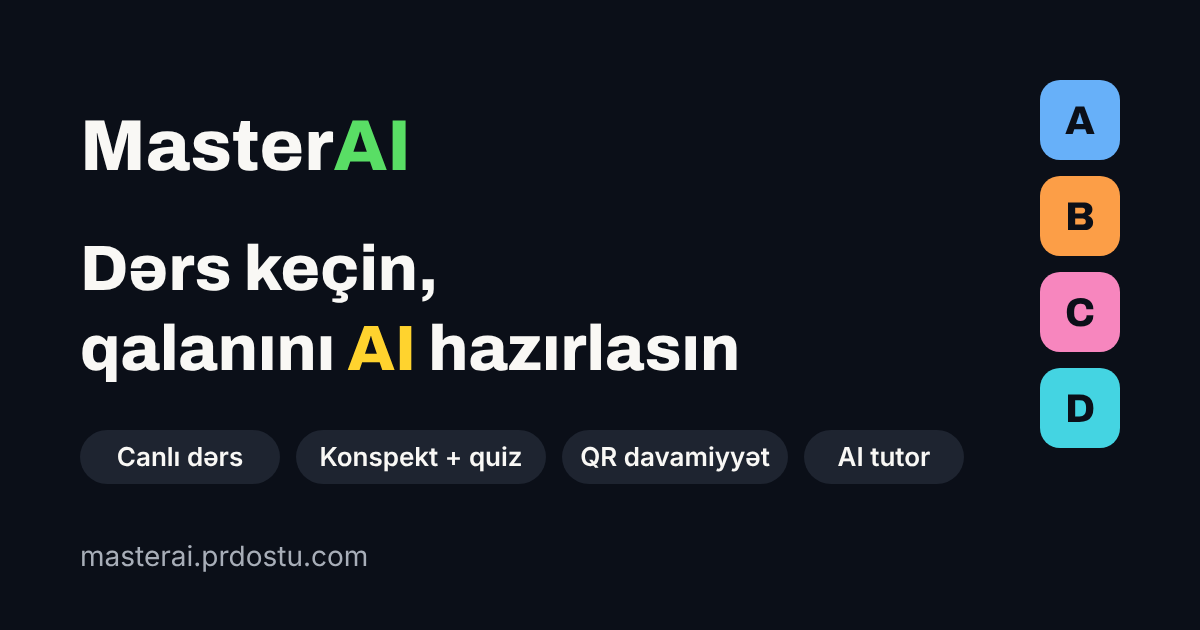
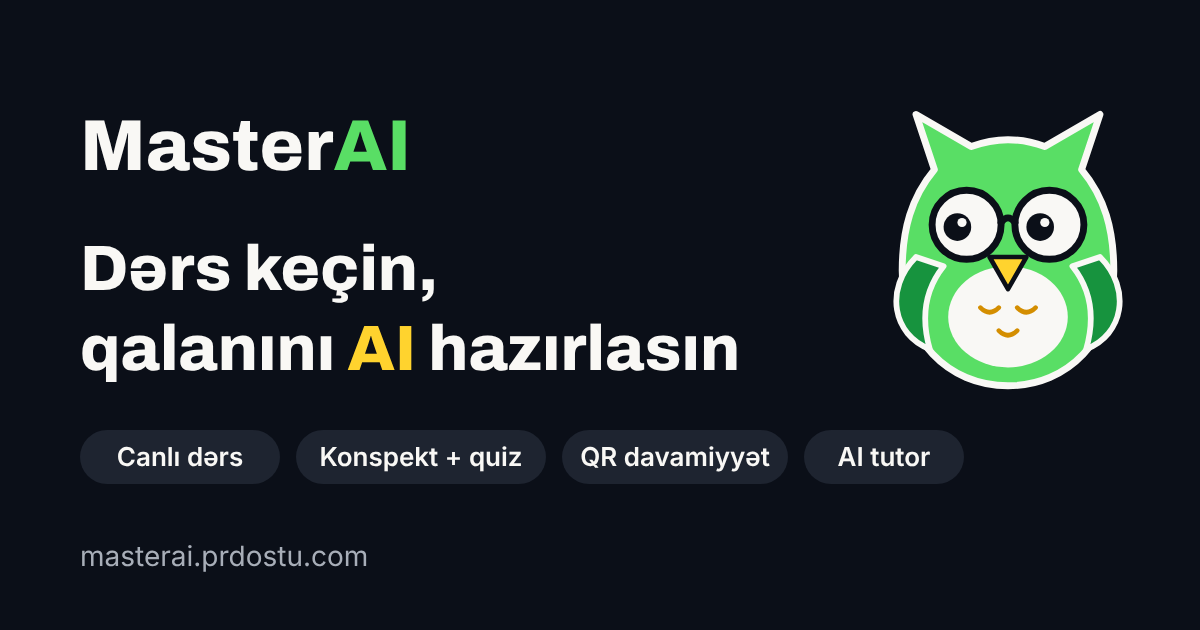
Hesabsız səhifələrdə bayquş, paylaşım şəkli, yekun axe yoxlaması (Faza 6)
- giris/qeydiyyat/qosul lövhəsində bayquş, səhv şifrədə təəccüblənir; bagli-da yatır
- og-banner: A-D kvadratları yerinə bayquş (PNG yenidən çəkildi)
- axe WCAG A+AA: hüquqi səhifələrin footer linki qara fonda 3.5 kontrast -> düzəldi, təkrar 0
- 4 yeni Node testi

Claude-Session: https://claude.ai/code/session_01FyfZgvp5vw2sim4aAzuqca

Changed region(s): [[0.74, 0.1206, 0.9558, 0.7238]]

diff --git a/web/index.html b/web/index.html
@@ -9,7 +9,7 @@
 <meta name="robots" content="index, follow">
 <meta name="theme-color" content="#0B0F18">
 <link rel="canonical" href="https://masterai.prdostu.com/">
-<link rel="manifest" href="manifest.json?v=20261102g">
+<link rel="manifest" href="manifest.json?v=20261102h">
 
 <!-- Open Graph - Telegram/WhatsApp link önizləməsi.
      MasterAI üçün xüsusilə vacibdir: müəllimlər sessiya linkini qrup
@@ -19,7 +19,7 @@
 <meta property="og:title" content="MasterAI - dərs keçin, qalanını AI hazırlasın">
 <meta property="og:description" content="Video dərs, dərsin səsindən AI konspekt və quiz, QR davamiyyət, AI tutor.">
 <meta property="og:url" content="https://masterai.prdostu.com/">
-<meta property="og:image" content="https://masterai.prdostu.com/assets/og-banner.png?v=20261102g">
+<meta property="og:image" content="https://masterai.prdostu.com/assets/og-banner.png?v=20261102h">
 <meta property="og:image:type" content="image/png">
 <meta property="og:image:width" content="1200">
 <meta property="og:image:height" content="630">
@@ -29,7 +29,7 @@
 <meta name="twitter:card" content="summary_large_image">
 <meta name="twitter:title" content="MasterAI - dərs keçin, qalanını AI hazırlasın">
 <meta name="twitter:description" content="Video dərs, dərsin səsindən AI konspekt və quiz, QR davamiyyət, AI tutor.">
-<meta name="twitter:image" content="https://masterai.prdostu.com/assets/og-banner.png?v=20261102g">
+<meta name="twitter:image" content="https://masterai.prdostu.com/assets/og-banner.png?v=20261102h">
 
 <script type="application/ld+json">
 {
@@ -47,7 +47,7 @@
 
 <!-- Brauzer nişanı. Olmasa brauzer /favicon.ico istəyir və hər
      səhifə yüklənişində 404 yaranır (render testində görüldü). -->
-<link rel="icon" href="assets/icon.svg?v=20261102g" type="image/svg+xml">
+<link rel="icon" href="assets/icon.svg?v=20261102h" type="image/svg+xml">
 <!-- Görünüş seçimi ilk boyamadan ƏVVƏL tətbiq olunur.
      NİYƏ İNLİNE: modul kimi yüklənsə brauzer əvvəlcə işıqlı ekranı
      çəkər, sonra tündə keçər - hər keçiddə ağ sıçrayış olar.
@@ -59,10 +59,10 @@
     if (t === 'dark' || t === 'light') document.documentElement.setAttribute('data-theme', t);
   } catch (e) { /* yaddaş bloklanıb - cihaz seçimi qalır */ }
 </script>
-<link rel="stylesheet" href="assets/css/tokens.css?v=20261102g">
-<link rel="stylesheet" href="assets/css/base.css?v=20261102g">
-<link rel="stylesheet" href="assets/css/components.css?v=20261102g">
-<link rel="stylesheet" href="assets/css/landing.css?v=20261102g">
+<link rel="stylesheet" href="assets/css/tokens.css?v=20261102h">
+<link rel="stylesheet" href="assets/css/base.css?v=20261102h">
+<link rel="stylesheet" href="assets/css/components.css?v=20261102h">
+<link rel="stylesheet" href="assets/css/landing.css?v=20261102h">
 </head>
 <body>
 <a class="skip-link" href="#main">Məzmuna keç</a>
@@ -398,7 +398,7 @@
   })();
 </script>
 <script type="module">
-  import { startLandingDemos } from './assets/js/landing-demo.js?v=20261102g';
+  import { startLandingDemos } from './assets/js/landing-demo.js?v=20261102h';
   startLandingDemos();
 </script>
 </body>

diff --git a/web/bagli.html b/web/bagli.html
@@ -6,7 +6,7 @@
 <title>Abunə bitib - MasterAI</title>
 <meta name="theme-color" content="#0B0F18">
 <meta name="robots" content="noindex">
-<link rel="icon" href="assets/icon.svg?v=20261102g" type="image/svg+xml">
+<link rel="icon" href="assets/icon.svg?v=20261102h" type="image/svg+xml">
 <!-- Görünüş seçimi ilk boyamadan ƏVVƏL tətbiq olunur (bax giris.html). -->
 <script>
   try {
@@ -14,9 +14,9 @@
     if (t === 'dark' || t === 'light') document.documentElement.setAttribute('data-theme', t);
   } catch (e) { /* yaddaş bloklanıb - cihaz seçimi qalır */ }
 </script>
-<link rel="stylesheet" href="assets/css/tokens.css?v=20261102g">
-<link rel="stylesheet" href="assets/css/base.css?v=20261102g">
-<link rel="stylesheet" href="assets/css/components.css?v=20261102g">
+<link rel="stylesheet" href="assets/css/tokens.css?v=20261102h">
+<link rel="stylesheet" href="assets/css/base.css?v=20261102h">
+<link rel="stylesheet" href="assets/css/components.css?v=20261102h">
 </head>
 <body>
 <!-- Server kursun abunəsi bitəndə HTTP 402 / WebSocket 4402 qaytarır,
@@ -25,14 +25,12 @@
      Sessiya silinmir: ödənişdən sonra «Yenidən yoxla» kifayətdir. -->
 <main class="auth" id="main">
   <header class="auth__band">
+      <span class="mascot mascot--on-ink auth__mascot" data-mascot="sleep"></span>
       <a class="brand" href="index.html">Master<span class="brand__accent">AI</span></a>
   </header>
   <div class="stack stack--loose auth__body">
 
     <div class="card stack">
-      <div class="state__icon" aria-hidden="true">
-        <svg class="icon" aria-hidden="true"><use href="assets/icons.svg#i-alert"></use></svg>
-      </div>
       <h1 style="font-size: var(--text-xl)">Kursun abunəsi bitib</h1>
       <p class="text-muted">
         Kursunuzun MasterAI-dan istifadə müddəti başa çatıb. Məlumatlarınız
@@ -51,6 +49,9 @@
 
 <script type="module">
   import { ApiError, clearSession, getToken, request } from './assets/js/api.js';
+  import { mountMascots } from './assets/js/mascot.js';
+
+  mountMascots();
 
   const statusBox = document.getElementById('statusBox');
   const retryBtn = document.getElementById('retryBtn');

diff --git a/web/qosul.html b/web/qosul.html
@@ -8,7 +8,7 @@
 <meta name="robots" content="noindex">
 <!-- Brauzer nişanı. Olmasa brauzer /favicon.ico istəyir və hər
      səhifə yüklənişində 404 yaranır (render testində görüldü). -->
-<link rel="icon" href="assets/icon.svg?v=20261102g" type="image/svg+xml">
+<link rel="icon" href="assets/icon.svg?v=20261102h" type="image/svg+xml">
 <!-- Görünüş seçimi ilk boyamadan ƏVVƏL tətbiq olunur.
      NİYƏ İNLİNE: modul kimi yüklənsə brauzer əvvəlcə işıqlı ekranı
      çəkər, sonra tündə keçər - hər keçiddə ağ sıçrayış olar.
@@ -20,9 +20,9 @@
     if (t === 'dark' || t === 'light') document.documentElement.setAttribute('data-theme', t);
   } catch (e) { /* yaddaş bloklanıb - cihaz seçimi qalır */ }
 </script>
-<link rel="stylesheet" href="assets/css/tokens.css?v=20261102g">
-<link rel="stylesheet" href="assets/css/base.css?v=20261102g">
-<link rel="stylesheet" href="assets/css/components.css?v=20261102g">
+<link rel="stylesheet" href="assets/css/tokens.css?v=20261102h">
+<link rel="stylesheet" href="assets/css/base.css?v=20261102h">
+<link rel="stylesheet" href="assets/css/components.css?v=20261102h">
 </head>
 <body>
 <!-- HESABSIZ səhifədir (2026-10-30): naviqasiya zolağı yoxdur, çünki
@@ -30,6 +30,7 @@
      məntiqi `sessiya.html` ilə ORTAQDIR (`live-play-screen.js`). -->
 <main class="auth" id="main">
   <header class="auth__band">
+      <span class="mascot mascot--on-ink auth__mascot" data-mascot="idle"></span>
       <a class="brand" href="index.html">Master<span class="brand__accent">AI</span></a>
       <p class="auth__tagline">Müəlliminizin verdiyi PIN ilə qoşulun - hesab lazım deyil</p>
   </header>
@@ -135,7 +136,7 @@
   import {
     GUEST_NAME_MAX, LivePinPlaySocket, guestKey, isValidPin, normalizePin,
   } from './assets/js/live-pin.js';
-  import { PlayScreen } from './assets/js/live-play-screen.js?v=20261102g';
+  import { PlayScreen } from './assets/js/live-play-screen.js?v=20261102h';
 
   const joinCard = document.getElementById('joinCard');
   const joinBtn = document.getElementById('joinBtn');

diff --git a/web/sessiya.html b/web/sessiya.html
@@ -8,7 +8,7 @@
 <meta name="robots" content="noindex">
 <!-- Brauzer nişanı. Olmasa brauzer /favicon.ico istəyir və hər
      səhifə yüklənişində 404 yaranır (render testində görüldü). -->
-<link rel="icon" href="assets/icon.svg?v=20261102g" type="image/svg+xml">
+<link rel="icon" href="assets/icon.svg?v=20261102h" type="image/svg+xml">
 <!-- Görünüş seçimi ilk boyamadan ƏVVƏL tətbiq olunur.
      NİYƏ İNLİNE: modul kimi yüklənsə brauzer əvvəlcə işıqlı ekranı
      çəkər, sonra tündə keçər - hər keçiddə ağ sıçrayış olar.
@@ -20,9 +20,9 @@
     if (t === 'dark' || t === 'light') document.documentElement.setAttribute('data-theme', t);
   } catch (e) { /* yaddaş bloklanıb - cihaz seçimi qalır */ }
 </script>
-<link rel="stylesheet" href="assets/css/tokens.css?v=20261102g">
-<link rel="stylesheet" href="assets/css/base.css?v=20261102g">
-<link rel="stylesheet" href="assets/css/components.css?v=20261102g">
+<link rel="stylesheet" href="assets/css/tokens.css?v=20261102h">
+<link rel="stylesheet" href="assets/css/base.css?v=20261102h">
+<link rel="stylesheet" href="assets/css/components.css?v=20261102h">
 </head>
 <body>
 <header id="appBar"></header>
@@ -120,7 +120,7 @@
 <script type="module">
   import { getToken } from './assets/js/api.js';
   import { LivePlaySocket } from './assets/js/live-socket.js';
-  import { PlayScreen } from './assets/js/live-play-screen.js?v=20261102g';
+  import { PlayScreen } from './assets/js/live-play-screen.js?v=20261102h';
   import { mountShell, requireLogin } from './assets/js/page-shell.js';
 
   /* Giriş MƏCBURİDİR: server tokensiz bağlantını 4401 ilə bağlayır

diff --git a/web/giris.html b/web/giris.html
@@ -8,7 +8,7 @@
 <meta name="robots" content="noindex">
 <!-- Brauzer nişanı. Olmasa brauzer /favicon.ico istəyir və hər
      səhifə yüklənişində 404 yaranır (render testində görüldü). -->
-<link rel="icon" href="assets/icon.svg?v=20261102g" type="image/svg+xml">
+<link rel="icon" href="assets/icon.svg?v=20261102h" type="image/svg+xml">
 <!-- Görünüş seçimi ilk boyamadan ƏVVƏL tətbiq olunur.
      NİYƏ İNLİNE: modul kimi yüklənsə brauzer əvvəlcə işıqlı ekranı
      çəkər, sonra tündə keçər - hər keçiddə ağ sıçrayış olar.
@@ -20,13 +20,14 @@
     if (t === 'dark' || t === 'light') document.documentElement.setAttribute('data-theme', t);
   } catch (e) { /* yaddaş bloklanıb - cihaz seçimi qalır */ }
 </script>
-<link rel="stylesheet" href="assets/css/tokens.css?v=20261102g">
-<link rel="stylesheet" href="assets/css/base.css?v=20261102g">
-<link rel="stylesheet" href="assets/css/components.css?v=20261102g">
+<link rel="stylesheet" href="assets/css/tokens.css?v=20261102h">
+<link rel="stylesheet" href="assets/css/base.css?v=20261102h">
+<link rel="stylesheet" href="assets/css/components.css?v=20261102h">
 </head>
 <body>
 <main class="auth" id="main">
   <header class="auth__band">
+      <span class="mascot mascot--on-ink auth__mascot" data-mascot="idle"></span>
       <a class="brand" href="index.html">Master<span class="brand__accent">AI</span></a>
       <p class="auth__tagline">Dərs keçin, qalanını AI hazırlasın</p>
       <div class="auth__chips" aria-hidden="true">

diff --git a/web/qeydiyyat.html b/web/qeydiyyat.html
@@ -8,7 +8,7 @@
 <meta name="robots" content="noindex">
 <!-- Brauzer nişanı. Olmasa brauzer /favicon.ico istəyir və hər
      səhifə yüklənişində 404 yaranır (render testində görüldü). -->
-<link rel="icon" href="assets/icon.svg?v=20261102g" type="image/svg+xml">
+<link rel="icon" href="assets/icon.svg?v=20261102h" type="image/svg+xml">
 <!-- Görünüş seçimi ilk boyamadan ƏVVƏL tətbiq olunur.
      NİYƏ İNLİNE: modul kimi yüklənsə brauzer əvvəlcə işıqlı ekranı
      çəkər, sonra tündə keçər - hər keçiddə ağ sıçrayış olar.
@@ -20,13 +20,14 @@
     if (t === 'dark' || t === 'light') document.documentElement.setAttribute('data-theme', t);
   } catch (e) { /* yaddaş bloklanıb - cihaz seçimi qalır */ }
 </script>
-<link rel="stylesheet" href="assets/css/tokens.css?v=20261102g">
-<link rel="stylesheet" href="assets/css/base.css?v=20261102g">
-<link rel="stylesheet" href="assets/css/components.css?v=20261102g">
+<link rel="stylesheet" href="assets/css/tokens.css?v=20261102h">
+<link rel="stylesheet" href="assets/css/base.css?v=20261102h">
+<link rel="stylesheet" href="assets/css/components.css?v=20261102h">
 </head>
 <body>
 <main class="auth" id="main">
   <header class="auth__band">
+      <span class="mascot mascot--on-ink auth__mascot" data-mascot="idle"></span>
       <a class="brand" href="index.html">Master<span class="brand__accent">AI</span></a>
       <p class="auth__tagline">Dərs keçin, qalanını AI hazırlasın</p>
       <div class="auth__chips" aria-hidden="true">

diff --git a/web/dars.html b/web/dars.html
@@ -8,7 +8,7 @@
 <meta name="robots" content="noindex">
 <!-- Brauzer nişanı. Olmasa brauzer /favicon.ico istəyir və hər
      səhifə yüklənişində 404 yaranır (render testində görüldü). -->
-<link rel="icon" href="assets/icon.svg?v=20261102g" type="image/svg+xml">
+<link rel="icon" href="assets/icon.svg?v=20261102h" type="image/svg+xml">
 <!-- Görünüş seçimi ilk boyamadan ƏVVƏL tətbiq olunur.
      NİYƏ İNLİNE: modul kimi yüklənsə brauzer əvvəlcə işıqlı ekranı
      çəkər, sonra tündə keçər - hər keçiddə ağ sıçrayış olar.
@@ -20,9 +20,9 @@
     if (t === 'dark' || t === 'light') document.documentElement.setAttribute('data-theme', t);
   } catch (e) { /* yaddaş bloklanıb - cihaz seçimi qalır */ }
 </script>
-<link rel="stylesheet" href="assets/css/tokens.css?v=20261102g">
-<link rel="stylesheet" href="assets/css/base.css?v=20261102g">
-<link rel="stylesheet" href="assets/css/components.css?v=20261102g">
+<link rel="stylesheet" href="assets/css/tokens.css?v=20261102h">
+<link rel="stylesheet" href="assets/css/base.css?v=20261102h">
+<link rel="stylesheet" href="assets/css/components.css?v=20261102h">
 <!-- LiveKit klienti REPOYA qoyulub (CDN yox): build addımı yoxdur, versiya
      sabitdir və CDN əlçatmaz olanda dərs dayanmır. Lisenziya: Apache-2.0,
      assets/vendor/LICENSE-livekit-client. Yeniləmə: npm tarball-dan

diff --git a/web/mexfilik.html b/web/mexfilik.html
@@ -9,7 +9,7 @@
 <link rel="canonical" href="https://masterai.prdostu.com/mexfilik.html">
 <!-- Brauzer nişanı. Olmasa brauzer /favicon.ico istəyir və hər
      səhifə yüklənişində 404 yaranır (render testində görüldü). -->
-<link rel="icon" href="assets/icon.svg?v=20261102g" type="image/svg+xml">
+<link rel="icon" href="assets/icon.svg?v=20261102h" type="image/svg+xml">
 <!-- Görünüş seçimi ilk boyamadan ƏVVƏL tətbiq olunur.
      NİYƏ İNLİNE: modul kimi yüklənsə brauzer əvvəlcə işıqlı ekranı
      çəkər, sonra tündə keçər - hər keçiddə ağ sıçrayış olar.
@@ -21,10 +21,10 @@
     if (t === 'dark' || t === 'light') document.documentElement.setAttribute('data-theme', t);
   } catch (e) { /* yaddaş bloklanıb - cihaz seçimi qalır */ }
 </script>
-<link rel="stylesheet" href="assets/css/tokens.css?v=20261102g">
-<link rel="stylesheet" href="assets/css/base.css?v=20261102g">
-<link rel="stylesheet" href="assets/css/components.css?v=20261102g">
-<link rel="stylesheet" href="assets/css/landing.css?v=20261102g">
+<link rel="stylesheet" href="assets/css/tokens.css?v=20261102h">
+<link rel="stylesheet" href="assets/css/base.css?v=20261102h">
+<link rel="stylesheet" href="assets/css/components.css?v=20261102h">
+<link rel="stylesheet" href="assets/css/landing.css?v=20261102h">
 </head>
 <body>
 <header class="landing-bar">

diff --git a/web/sertler.html b/web/sertler.html
@@ -9,7 +9,7 @@
 <link rel="canonical" href="https://masterai.prdostu.com/sertler.html">
 <!-- Brauzer nişanı. Olmasa brauzer /favicon.ico istəyir və hər
      səhifə yüklənişində 404 yaranır (render testində görüldü). -->
-<link rel="icon" href="assets/icon.svg?v=20261102g" type="image/svg+xml">
+<link rel="icon" href="assets/icon.svg?v=20261102h" type="image/svg+xml">
 <!-- Görünüş seçimi ilk boyamadan ƏVVƏL tətbiq olunur.
      NİYƏ İNLİNE: modul kimi yüklənsə brauzer əvvəlcə işıqlı ekranı
      çəkər, sonra tündə keçər - hər keçiddə ağ sıçrayış olar.
@@ -21,10 +21,10 @@
     if (t === 'dark' || t === 'light') document.documentElement.setAttribute('data-theme', t);
   } catch (e) { /* yaddaş bloklanıb - cihaz seçimi qalır */ }
 </script>
-<link rel="stylesheet" href="assets/css/tokens.css?v=20261102g">
-<link rel="stylesheet" href="assets/css/base.css?v=20261102g">
-<link rel="stylesheet" href="assets/css/components.css?v=20261102g">
-<link rel="stylesheet" href="assets/css/landing.css?v=20261102g">
+<link rel="stylesheet" href="assets/css/tokens.css?v=20261102h">
+<link rel="stylesheet" href="assets/css/base.css?v=20261102h">
+<link rel="stylesheet" href="assets/css/components.css?v=20261102h">
+<link rel="stylesheet" href="assets/css/landing.css?v=20261102h">
 </head>
 <body>
 <header class="landing-bar">

diff --git a/web/chat.html b/web/chat.html
@@ -8,7 +8,7 @@
 <meta name="robots" content="noindex">
 <!-- Brauzer nişanı. Olmasa brauzer /favicon.ico istəyir və hər
      səhifə yüklənişində 404 yaranır (render testində görüldü). -->
-<link rel="icon" href="assets/icon.svg?v=20261102g" type="image/svg+xml">
+<link rel="icon" href="assets/icon.svg?v=20261102h" type="image/svg+xml">
 <!-- Görünüş seçimi ilk boyamadan ƏVVƏL tətbiq olunur.
      NİYƏ İNLİNE: modul kimi yüklənsə brauzer əvvəlcə işıqlı ekranı
      çəkər, sonra tündə keçər - hər keçiddə ağ sıçrayış olar.
@@ -20,9 +20,9 @@
     if (t === 'dark' || t === 'light') document.documentElement.setAttribute('data-theme', t);
   } catch (e) { /* yaddaş bloklanıb - cihaz seçimi qalır */ }
 </script>
-<link rel="stylesheet" href="assets/css/tokens.css?v=20261102g">
-<link rel="stylesheet" href="assets/css/base.css?v=20261102g">
-<link rel="stylesheet" href="assets/css/components.css?v=20261102g">
+<link rel="stylesheet" href="assets/css/tokens.css?v=20261102h">
+<link rel="stylesheet" href="assets/css/base.css?v=20261102h">
+<link rel="stylesheet" href="assets/css/components.css?v=20261102h">
 <style>
   /* Mesaj axını uzun olur - daxili sürüşmə ilə yazma sahəsi həmişə
      görünən qalır. Yalnız bu səhifəyə aiddir, ona görə burada. */

diff --git a/web/xulase.html b/web/xulase.html
@@ -8,7 +8,7 @@
 <meta name="robots" content="noindex">
 <!-- Brauzer nişanı. Olmasa brauzer /favicon.ico istəyir və hər
      səhifə yüklənişində 404 yaranır (render testində görüldü). -->
-<link rel="icon" href="assets/icon.svg?v=20261102g" type="image/svg+xml">
+<link rel="icon" href="assets/icon.svg?v=20261102h" type="image/svg+xml">
 <!-- Görünüş seçimi ilk boyamadan ƏVVƏL tətbiq olunur.
      NİYƏ İNLİNE: modul kimi yüklənsə brauzer əvvəlcə işıqlı ekranı
      çəkər, sonra tündə keçər - hər keçiddə ağ sıçrayış olar.
@@ -20,9 +20,9 @@
     if (t === 'dark' || t === 'light') document.documentElement.setAttribute('data-theme', t);
   } catch (e) { /* yaddaş bloklanıb - cihaz seçimi qalır */ }
 </script>
-<link rel="stylesheet" href="assets/css/tokens.css?v=20261102g">
-<link rel="stylesheet" href="assets/css/base.css?v=20261102g">
-<link rel="stylesheet" href="assets/css/components.css?v=20261102g">
+<link rel="stylesheet" href="assets/css/tokens.css?v=20261102h">
+<link rel="stylesheet" href="assets/css/base.css?v=20261102h">
+<link rel="stylesheet" href="assets/css/components.css?v=20261102h">
 <!-- Çap (və «PDF kimi saxla»): yalnız xülasənin özü qalır. Ölçü və
      rəng yoxdur - token qaydası pozulmur. -->
 <style media="print">

diff --git a/web/sessiyalar.html b/web/sessiyalar.html
@@ -8,7 +8,7 @@
 <meta name="robots" content="noindex">
 <!-- Brauzer nişanı. Olmasa brauzer /favicon.ico istəyir və hər
      səhifə yüklənişində 404 yaranır (render testində görüldü). -->
-<link rel="icon" href="assets/icon.svg?v=20261102g" type="image/svg+xml">
+<link rel="icon" href="assets/icon.svg?v=20261102h" type="image/svg+xml">
 <!-- Görünüş seçimi ilk boyamadan ƏVVƏL tətbiq olunur.
      NİYƏ İNLİNE: modul kimi yüklənsə brauzer əvvəlcə işıqlı ekranı
      çəkər, sonra tündə keçər - hər keçiddə ağ sıçrayış olar.
@@ -20,9 +20,9 @@
     if (t === 'dark' || t === 'light') document.documentElement.setAttribute('data-theme', t);
   } catch (e) { /* yaddaş bloklanıb - cihaz seçimi qalır */ }
 </script>
-<link rel="stylesheet" href="assets/css/tokens.css?v=20261102g">
-<link rel="stylesheet" href="assets/css/base.css?v=20261102g">
-<link rel="stylesheet" href="assets/css/components.css?v=20261102g">
+<link rel="stylesheet" href="assets/css/tokens.css?v=20261102h">
+<link rel="stylesheet" href="assets/css/base.css?v=20261102h">
+<link rel="stylesheet" href="assets/css/components.css?v=20261102h">
 <style>
   /* Sinif adı ekrana proyeksiya edilir - uzaqdan oxunmalıdır.
      Əvvəl burada PIN vardı; PIN axını silindi. */
